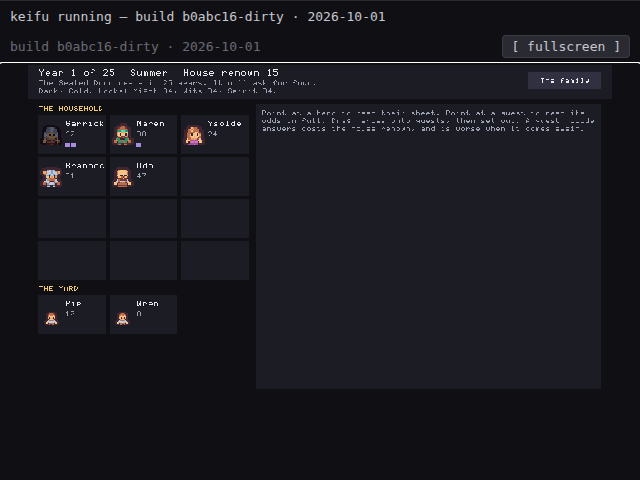
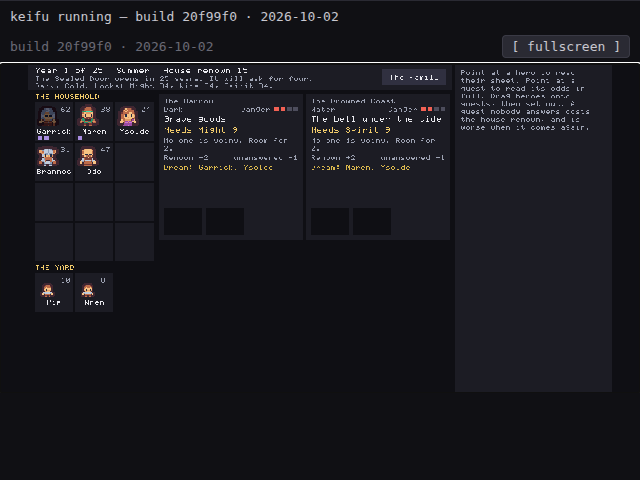
keifu: the web check's picture on the docked layout; FINDINGS gets the mutation round
Claude-Session: https://claude.ai/code/session_01Y8z4BgRYUwMJK5Qo1RB6Ae

diff --git a/games/keifu/FINDINGS.md b/games/keifu/FINDINGS.md
@@ -564,3 +564,11 @@ DOM that measured it (640x329 in the check's 640x480 window). **Engine source: n
   history), `w4-drag.png` (Brannoc in hand over "Grave goods": the card's "you bring 12" and
   his previewed tile, the hand, and his sheet in the dock), `dock-scrolled.png` (Garrick's
   sheet scrolled to its end); the other W1-W4 screens re-taken on the new layout.
+- **The mutation round.** `mutants/dock.txt`, 22 faults over the dock, its scroll, the
+  pointer's new paths, the layout regions, the camera fit and the redrawn cards. Round one:
+  21 of 22 noticed. The escape, K19 (the dock's text rect widened under the scrollbar), was
+  a loose check of the very kind §A.6 warns of: the floor judged rows against
+  `dock::text_rect()`, the rect the fault moved. It now measures against the scrollbar's
+  lane, which is set from the dock's edge; K19 rerun: noticed — **22 of 22**. W4's pointer
+  and board-view entries (U1-U5, V1-V5; V4 and V5 now in `dock_lines.rs`) rerun against
+  the new code: 10 of 10.
